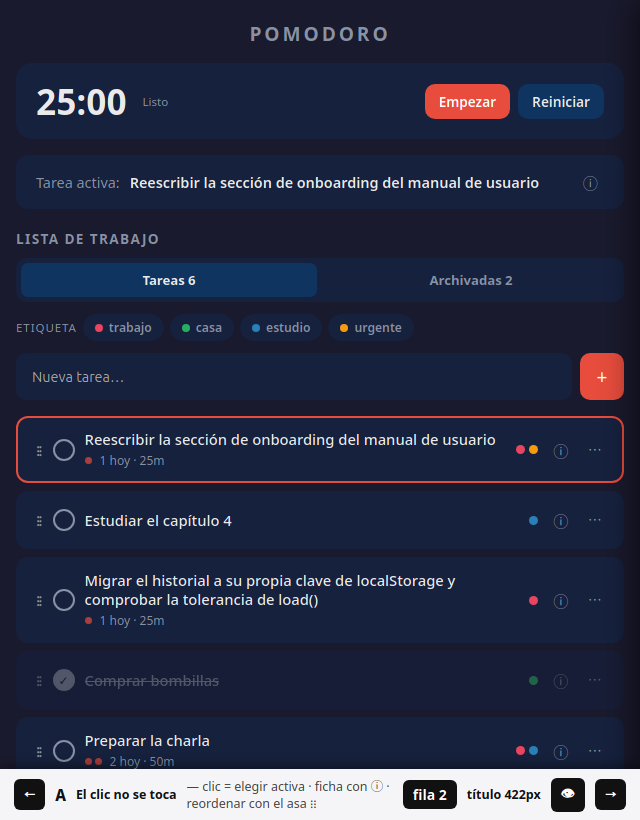
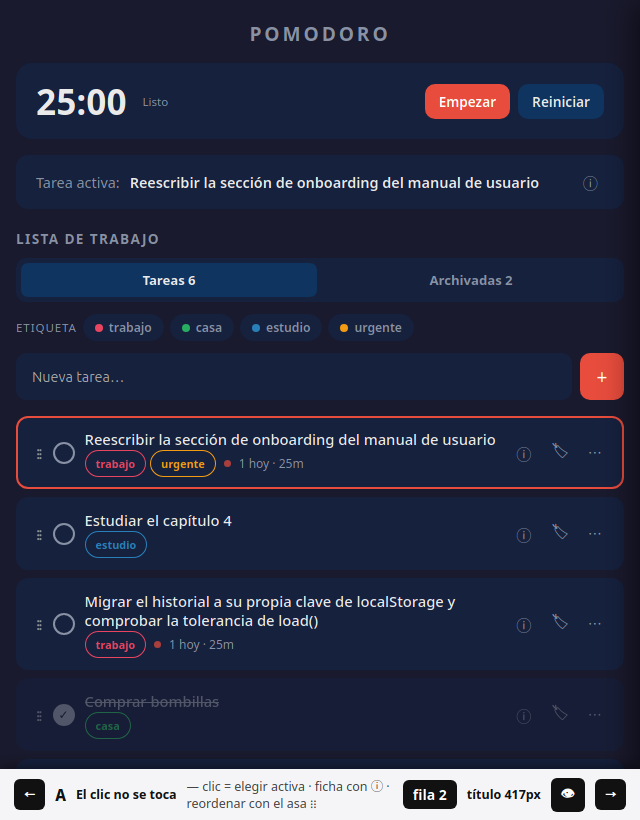
PROTOTIPO: area de pulsacion generosa en los chips (Q9 de #22)
Decidido en #22: el chip es un blanco dentro de la fila y fallarlo cae en el
clic de la fila, que puede abandonar un pomodoro. El borde visible se queda
pequeno; la zona sensible crece con padding y margen negativo.

Con esto el prototipo arranca ya en lo acordado: variante A, orden de fila 2
(⋮⋮ · casilla · [nombre / chips + meta] · ⓘ 🏷 ⋯), titulo 417px.

diff --git a/prototype-gestos.html b/prototype-gestos.html
@@ -182,9 +182,13 @@
   /* Chips con texto: lo que decidió #25. Van en la línea de meta, y son
      clicables (ponen el filtro), así que la fila deja de ser uniforme. */
   .tag-chips { display: flex; gap: 4px; align-items: center; min-width: 0; }
+  /* Área de pulsación generosa: decidido en #22. El chip es un blanco dentro
+     de la fila, y fallarlo cae en el clic de la fila, que puede abandonar un
+     pomodoro. El borde visible es pequeño; la zona sensible, no. */
   .tag-chip {
-    font-size: 0.68rem; font-weight: 700; padding: 2px 7px; border-radius: 50px;
+    font-size: 0.68rem; font-weight: 700; padding: 5px 10px; border-radius: 50px;
     white-space: nowrap; border: 1px solid; background: transparent; cursor: pointer;
+    margin: -2px 0;
   }
   .tag-chip.mas { color: var(--text-muted); border-color: var(--text-muted); }
 
